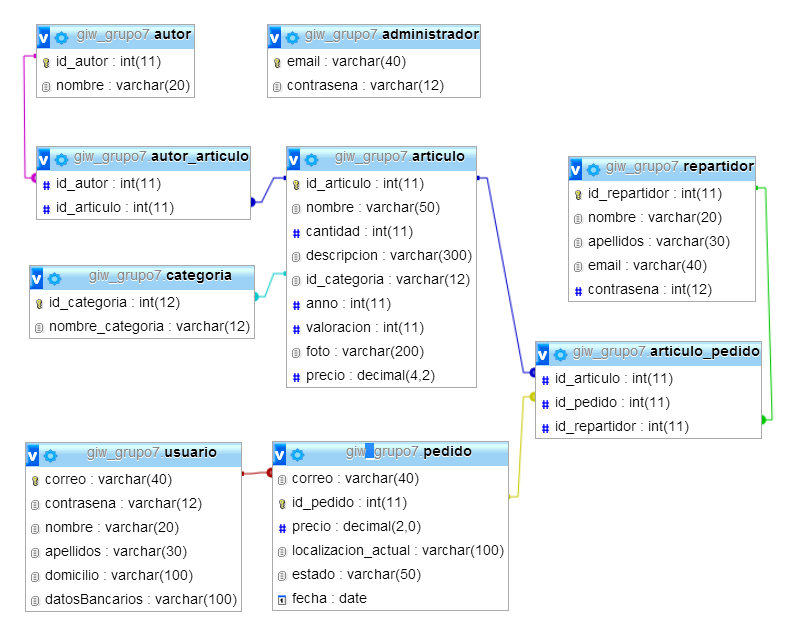
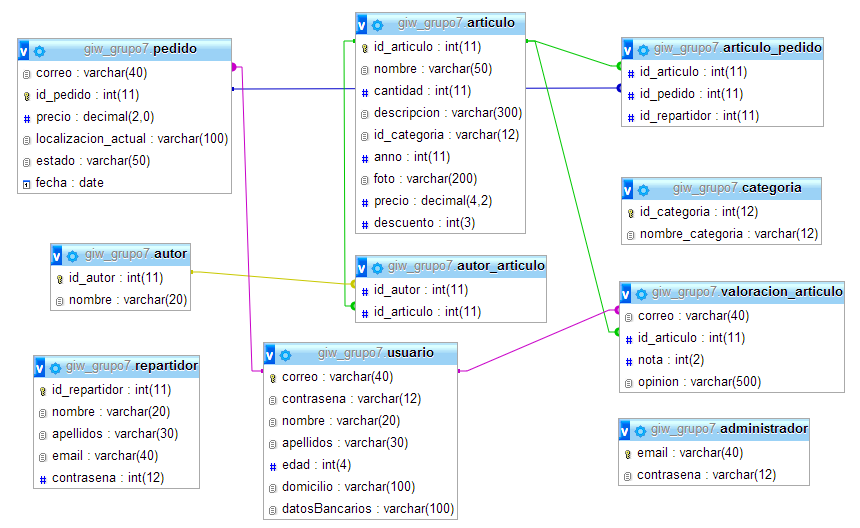
Agregada recomendacion por edad. Ojo porque en la BD la edad se llamaba: "Edad" ahora es "edad". Actualizado el PNG con el diseño de la BD.

Changed region(s): [[0.0, 0.0, 1.0, 1.0], [0.6979, 0.7879, 0.9406, 0.9091], [0.6372, 0.2121, 0.6675, 0.2424]]

diff --git a/vista/contenido.php b/vista/contenido.php
@@ -54,9 +54,17 @@
 	</tr>
 	<tr>
 		<?php 
-			$BDD = new Mysql();			
-			$resultado = $BDD->consultaAzarDiscosInicio();
-			
+			if (session_id() == "") {
+				@session_start();
+			}
+			if(isset($_SESSION['logueado']) && $_SESSION['logueado'] && isset($_SESSION['edad'])){ //es un usuario logueado
+				$edad = $_SESSION['edad'];
+				$BDD = new Mysql();			
+				$resultado = $BDD->consultaDiscosPorEdad($edad);
+			} else {				
+				$BDD = new Mysql();
+				$resultado = $BDD->consultaAzarDiscosInicio();
+			}
 			while ($row = mysqli_fetch_array($resultado, MYSQLI_ASSOC)){
 			?>
 			<td>	
@@ -67,7 +75,7 @@
 			</td>				
 			<?php 
 			}
-			mysqli_free_result($resultado);
+			mysqli_free_result($resultado);	
 		?>	
 	</tr>
 </table>

diff --git a/controlador/opbasededatos.php b/controlador/opbasededatos.php
@@ -528,6 +528,17 @@ class Mysql { // estaba puesto en minúsculas todo
 		unset($consulta);
 		return mysqli_affected_rows($this->conexion) > 0;
 	}
+	
+	public function consultaDiscosPorEdad($edad){
+		$annoMenosEdad = idate("Y") - $edad - 10; 
+		// suponemos que la musica de la decada anterior le podria gustar
+		$consulta ="select * from articulo where articulo.anno >= $annoMenosEdad order by rand() limit 0,5";
+		$this->conectar();
+		$resultado=mysqli_query($this->conexion,$consulta);
+		$this->cerrar();
+		unset($consulta);
+		return $resultado;
+	}
    
     public function cerrar () {
         @mysql_close($this->conexion);
